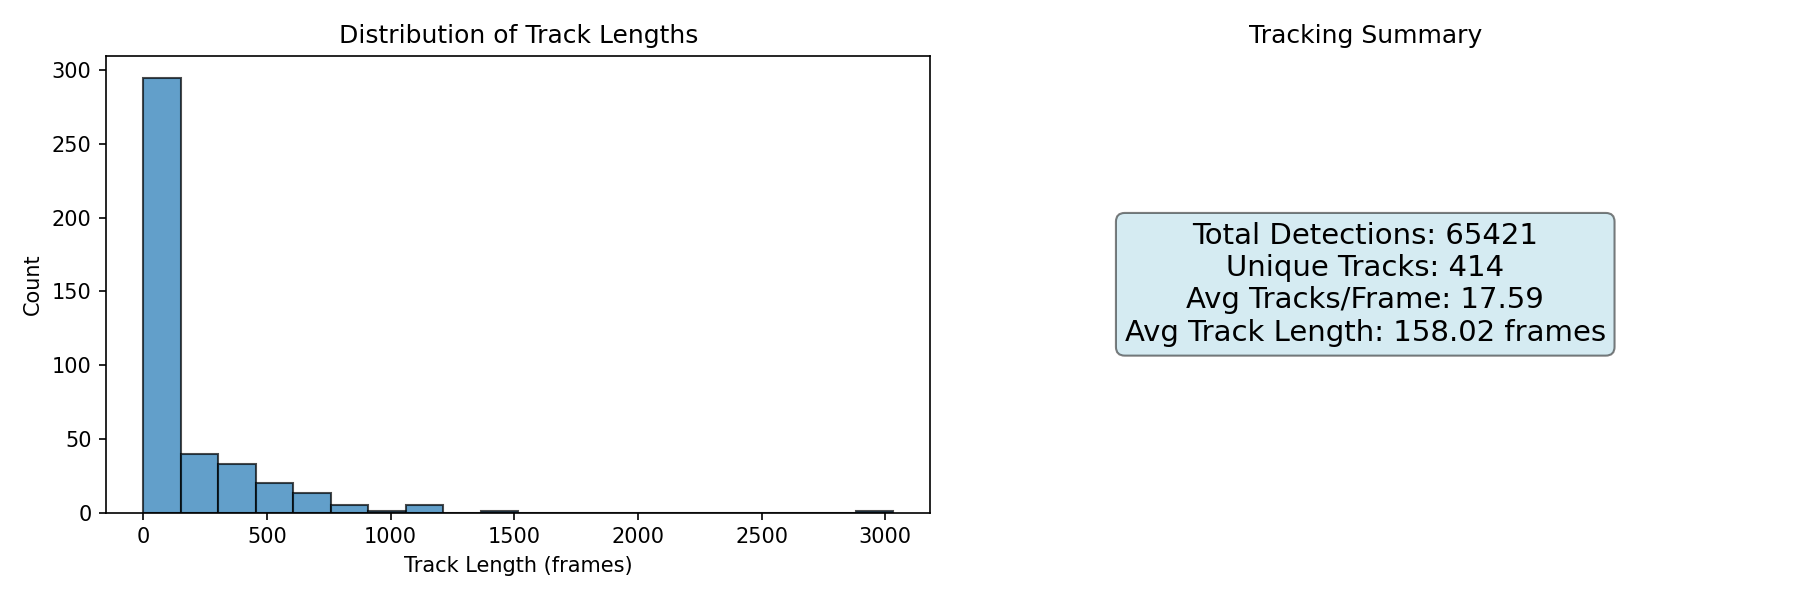
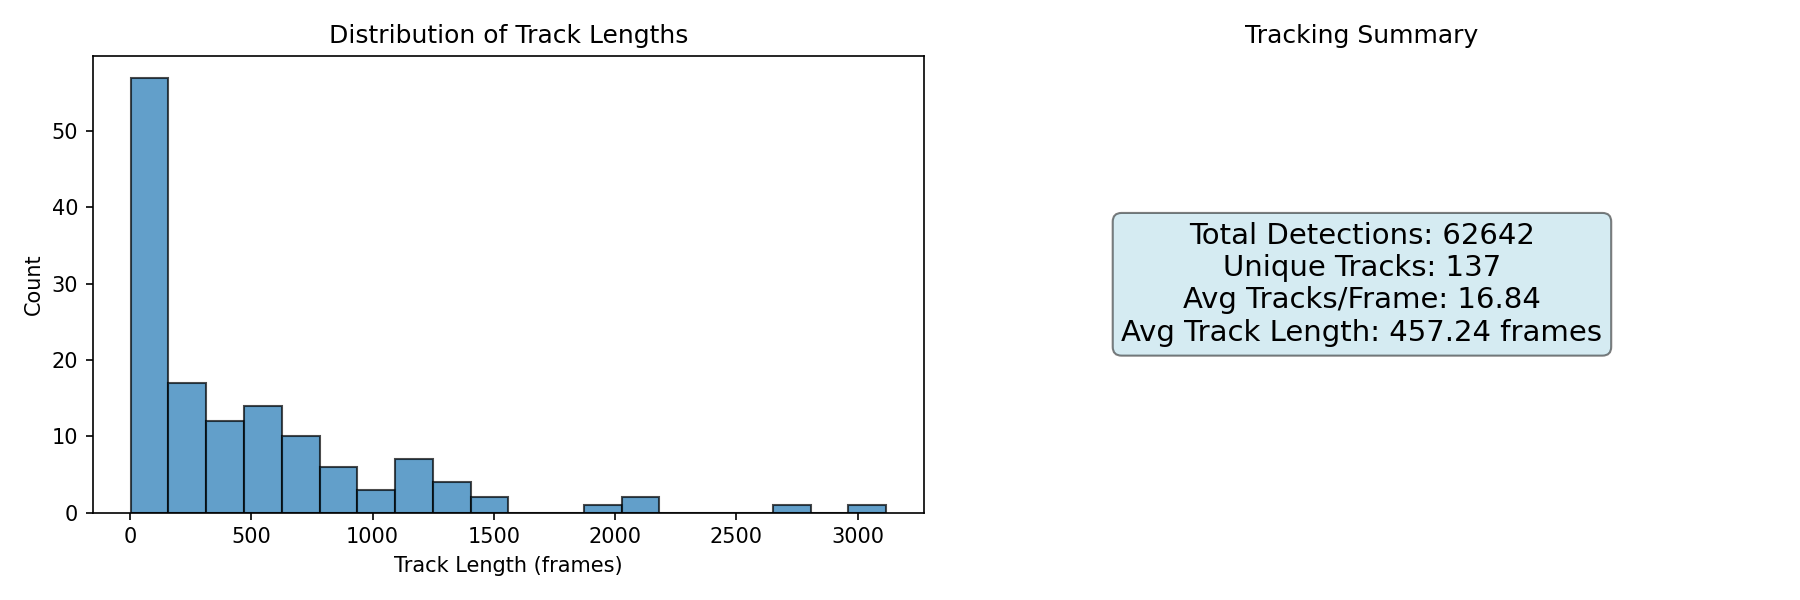
use botsort for tracking

diff --git a/src/football_tracking_demo/tracker.py b/src/football_tracking_demo/tracker.py
@@ -1,5 +1,8 @@
-"""Multi-object tracking using ByteTrack via the supervision library."""
+"""Multi-object tracking — ByteTrack and BoT-SORT backends."""
 
+from __future__ import annotations
+
+import warnings
 from typing import Any
 
 import numpy as np
@@ -40,15 +43,20 @@ class ByteTracker:
             minimum_consecutive_frames=minimum_consecutive_frames,
         )
 
-    def update(self, detections: list[list[float]]) -> list[list[float]]:
+    def update(
+        self,
+        detections: list[list[float]],
+        frame: np.ndarray
+        | None = None,  # accepted but unused — API parity with BotSortTracker
+    ) -> list[list[float]]:
         """Feed detections for a single frame and return tracked results.
 
         Args:
             detections: List of ``[x1, y1, x2, y2, confidence]``.
+            frame: Ignored by ByteTrack (present for API parity with BotSortTracker).
 
         Returns:
             List of ``[x1, y1, x2, y2, track_id, confidence]``.
-            ``track_id`` is a stable integer ID assigned by ByteTrack.
         """
         if not detections:
             sv_dets = sv.Detections.empty()
@@ -89,3 +97,142 @@ class ByteTracker:
             frame_rate=cfg.get("frame_rate", 30),
             track_activation_threshold=cfg.get("track_activation_threshold", 0.25),
         )
+
+
+class BotSortTracker:
+    """Wraps boxmot BotSort with camera motion compensation (CMC).
+
+    Unlike ByteTrack, BoT-SORT estimates the inter-frame camera transform
+    (sparse optical flow by default) and corrects all Kalman predictions before
+    IoU matching. This greatly reduces track fragmentation on broadcast footage
+    where the camera pans or tilts continuously.
+
+    Requires: ``pip install boxmot``
+
+    ReID is disabled by default (``reid_weights=None``). Pass a path to an
+    osnet/resnet ReID weight file to enable appearance-based re-identification.
+    """
+
+    def __init__(
+        self,
+        device: str = "cpu",
+        half: bool = False,
+        reid_weights: str | None = None,
+        track_buffer: int = 30,
+        match_threshold: float = 0.8,
+        track_activation_threshold: float = 0.25,
+        frame_rate: int = 30,
+        cmc_method: str = "sparseOptFlow",
+    ):
+        try:
+            import torch
+            from pathlib import Path
+
+            from boxmot import BotSort
+        except ImportError as e:
+            raise ImportError(
+                "boxmot is required for BoT-SORT. Install with: pip install boxmot"
+            ) from e
+
+        import torch
+        from pathlib import Path
+
+        from boxmot import BotSort
+
+        reid_path = Path(reid_weights) if reid_weights else Path("noreid.pt")
+
+        self._tracker = BotSort(
+            reid_weights=reid_path,
+            device=torch.device(device),
+            half=half,
+            track_buffer=track_buffer,
+            match_thresh=match_threshold,
+            new_track_thresh=track_activation_threshold,
+            frame_rate=frame_rate,
+            cmc_method=cmc_method,
+            with_reid=reid_weights is not None,
+        )
+
+    def update(
+        self,
+        detections: list[list[float]],
+        frame: np.ndarray | None = None,
+    ) -> list[list[float]]:
+        """Feed detections for a single frame and return tracked results.
+
+        Args:
+            detections: List of ``[x1, y1, x2, y2, confidence]``.
+            frame: BGR frame (H, W, 3) uint8. Required for CMC — if omitted a
+                black dummy frame is used and camera motion is not compensated.
+
+        Returns:
+            List of ``[x1, y1, x2, y2, track_id, confidence]``.
+        """
+        if not detections:
+            return []
+
+        arr = np.array(detections, dtype=np.float32)
+        # boxmot format: [x1, y1, x2, y2, conf, class_id]
+        dets = np.hstack([arr[:, :5], np.zeros((len(arr), 1), dtype=np.float32)])
+
+        if frame is None:
+            warnings.warn(
+                "BotSortTracker.update() called without a frame — "
+                "CMC is disabled and camera motion will not be compensated.",
+                stacklevel=2,
+            )
+            frame = np.zeros((720, 1280, 3), dtype=np.uint8)
+
+        tracks = self._tracker.update(dets, frame)
+
+        results: list[list[float]] = []
+        if tracks is not None and len(tracks) > 0:
+            for row in tracks:
+                results.append(
+                    [
+                        float(row[0]),
+                        float(row[1]),
+                        float(row[2]),
+                        float(row[3]),
+                        int(row[4]),
+                        float(row[5]),
+                    ]
+                )
+
+        return results
+
+    def reset(self) -> None:
+        """Reset tracker state (e.g. between video clips)."""
+        self._tracker.reset()
+
+    @classmethod
+    def from_config(cls, config: dict[str, Any] | None = None) -> "BotSortTracker":
+        """Create a BotSortTracker from the tracking section of config.yaml."""
+        cfg = config or {}
+        bot = cfg.get("botsort", {})
+        return cls(
+            device=bot.get("device", "cpu"),
+            half=bot.get("half", False),
+            reid_weights=bot.get("reid_weights"),  # None = no ReID
+            track_buffer=cfg.get("track_buffer", 30),
+            match_threshold=cfg.get("match_threshold", 0.8),
+            track_activation_threshold=cfg.get("track_activation_threshold", 0.25),
+            frame_rate=cfg.get("frame_rate", 30),
+            cmc_method=bot.get("cmc_method", "sparseOptFlow"),
+        )
+
+
+def build_tracker(
+    config: dict[str, Any] | None = None,
+) -> ByteTracker | BotSortTracker:
+    """Instantiate the tracker named in ``config['tracker']``.
+
+    Supported values (case-insensitive):
+        - ``"bytetrack"`` (default) — supervision ByteTrack
+        - ``"botsort"``             — boxmot BoT-SORT with CMC
+    """
+    cfg = config or {}
+    name = cfg.get("tracker", "bytetrack").lower().replace("-", "").replace("_", "")
+    if name == "botsort":
+        return BotSortTracker.from_config(cfg)
+    return ByteTracker.from_config(cfg)

diff --git a/src/football_tracking_demo/run_demo.py b/src/football_tracking_demo/run_demo.py
@@ -26,7 +26,7 @@ from football_tracking_demo.config import (
     load_config,
 )
 from football_tracking_demo.detector import PlayerDetector
-from football_tracking_demo.tracker import ByteTracker
+from football_tracking_demo.tracker import build_tracker
 from football_tracking_demo.video_io import VideoWriter, get_video_metadata, load_video
 from football_tracking_demo.viz import TrackVisualizer
 
@@ -173,7 +173,8 @@ def run_pipeline(config: dict[str, Any], video_path: str | None = None) -> None:
         field_mask_config=mask_cfg,
     )
 
-    tracker = ByteTracker.from_config(track_cfg)
+    tracker = build_tracker(track_cfg)
+    print(f"Tracker: {track_cfg.get('tracker', 'bytetrack')}")
     visualizer = TrackVisualizer.from_config(viz_cfg)
 
     output_video_path = out_cfg.get("video_path", "outputs/demo.mp4")
@@ -191,7 +192,7 @@ def run_pipeline(config: dict[str, Any], video_path: str | None = None) -> None:
         for frame_idx, frame in pbar:
             timestamp = frame_idx / fps
             detections = detector.detect_and_filter(frame)
-            tracks = tracker.update(detections)
+            tracks = tracker.update(detections, frame)
 
             for trk in tracks:
                 all_tracks.append(

diff --git a/README.md b/README.md
@@ -1,6 +1,6 @@
 # Football Player Tracking Demo
 
-Detect and track football (soccer) players in broadcast video using YOLO26 (or YOLOv8) and ByteTrack. The pipeline processes a short match clip frame-by-frame, assigns stable IDs across frames, and exports an annotated video, structured track data, and a demo GIF.
+Detect and track football (soccer) players in broadcast video using YOLO26 (or YOLOv8) and BoT-SORT. The pipeline processes a short match clip frame-by-frame, assigns stable IDs across frames, and exports an annotated video, structured track data, and a demo GIF.
 
 ![Demo GIF](outputs/demo.gif)
 
@@ -19,7 +19,7 @@ YOLO Detection       -- COCO-pretrained person detector (YOLO26 / YOLOv8)
 Playing Field Filter -- reject detections by size, aspect ratio, green field mask
     |
     v
-ByteTrack            -- multi-object tracking with stable IDs
+BoT-SORT             -- multi-object tracking with camera motion compensation
     |
     v
 Visualization        -- bounding boxes, track IDs, motion trails
@@ -57,11 +57,25 @@ Model sizes range from very small (2.4M parameters) to rather arge (65 M paramet
 
 Assessing the quality, without labelled data, is difficult. It seems larger models are generally better. Important is that model-size influences detection confidence, which needs to be considered when tuning the tracker.
 
-### Byte Track
+### Tracking
 
-**ByteTrack** (via the [supervision](https://github.com/roboflow/supervision) library) handles online multi-object association with a 120-frame track buffer for handling brief occlusions. This could be tuned further or improved with methods based on appearaace embeddings for example.
+**ByteTrack** (via [supervision](https://github.com/roboflow/supervision)) does not use camera motion correction. This seems to be an issue and was the reason to test BotSort. Switch backends by setting `tracking.tracker: bytetrack` in `config.yaml`.
 
-Another issue is the kalman filter in the tracker, wich does not account for camera movements. Global movement should be corrected for.
+**BoT-SORT** (via [boxmot](https://github.com/mikel-brostrom/boxmot)) is the default tracker. It extends ByteTrack with a camera motion compensation (CMC) step: sparse optical flow estimates the inter-frame camera transform and corrects all Kalman predictions before IoU matching. This substantially reduces track fragmentation. This was a key improvement
+
+ReID is disabled by default (CMC only). Pass a path to an osnet/resnet weight file via `tracking.botsort.reid_weights` to enable appearance-based re-identification.
+
+
+<table>
+  <tr>
+    <th>ByteTrack (no CMC)</th>
+    <th>BoT-SORT (sparse optical flow CMC)</th>
+  </tr>
+  <tr>
+    <td><img src="outputs/demo_byte_tracker.gif" width="360" alt="ByteTrack" /></td>
+    <td><img src="outputs/demo.gif" width="360" alt="BoT-SORT" /></td>
+  </tr>
+</table>
 
 ## Project Structure
 
@@ -75,7 +89,7 @@ football-tracking-demo/
 │   ├── video_io.py           # Video read/write (OpenCV)
 │   ├── detector.py           # YOLOv8 detection + HUD masking
 │   ├── filtering.py          # Size, aspect ratio, playing field filters
-│   ├── tracker.py            # ByteTrack wrapper
+│   ├── tracker.py            # BoT-SORT / ByteTrack tracker backends
 │   └── viz.py                # Drawing boxes, IDs, motion trails
 ├── notebooks/
 │   ├── 01-mw-detection-hud-mask-inspection.ipynb
@@ -192,17 +206,27 @@ playing_field_mask:
 
 ### `tracking`
 
-Parameters passed to ByteTrack for multi-object association.
+Selects the tracker backend and shared association parameters.
 
 ```yaml
 tracking:
-  track_buffer: 60             # Frames a lost track is kept alive before deletion;
+  tracker: botsort             # bytetrack | botsort (default: botsort)
+  track_buffer: 30             # Frames a lost track is kept alive before deletion;
                                # increase for longer occlusions
   match_threshold: 0.8         # Minimum IoU to match a detection to an existing track
   frame_rate: 60               # Source video FPS (used internally for velocity priors)
   track_activation_threshold: 0.25  # Minimum confidence for a detection to start a
                                      # new track (higher = fewer spurious tracks)
+
+  # BoT-SORT specific (only used when tracker: botsort)
+  botsort:
+    device: 0                  # Device for ReID model: cpu | cuda | mps
+    half: false                # FP16 inference for ReID
+    reid_weights: null         # Path to ReID weights; null = CMC only, no ReID
+    cmc_method: sof            # Camera motion compensation: sift | ecc | orb | sof
 ```
+
+Switch to ByteTrack (no CMC) by setting `tracker: bytetrack` and removing the `botsort` block.
 
 ### `visualization`
 
@@ -278,7 +302,8 @@ make all              # Download data + run full pipeline
 
 - **Python 3.14+**
 - **YOLO26 / YOLOv8** (Ultralytics) -- object detection
-- **ByteTrack** (supervision) -- multi-object tracking
+- **BoT-SORT** (boxmot, default) -- multi-object tracking with camera motion compensation
+- **ByteTrack** (supervision, optional) -- lightweight alternative tracker
 - **OpenCV** -- video I/O and image processing
 - **NumPy** / **Matplotlib** -- data handling and plotting
 - **imageio** -- GIF generation
